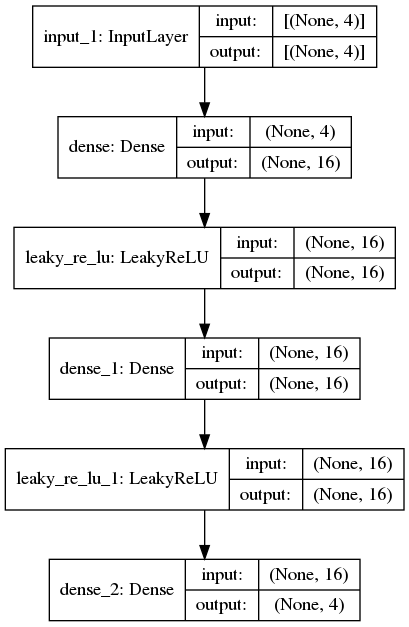
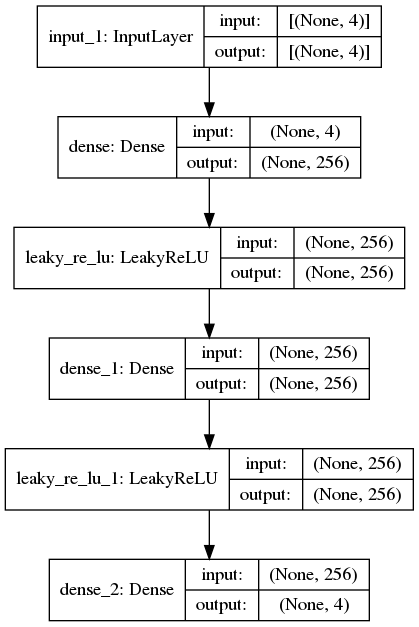
correction

diff --git a/Simple.py b/Simple.py
@@ -19,9 +19,9 @@ import copy
 curr_state = keras.Input(shape=(4,))
 
 # "encoded" is the encoded representation of the input
-encoded = Dense(16)(curr_state)
+encoded = Dense(256)(curr_state)
 encoded = LeakyReLU(alpha=0.2)(encoded)
-encoded = Dense(16)(encoded)
+encoded = Dense(256)(encoded)
 encoded = LeakyReLU(alpha=0.2)(encoded)
 n_state = layers.Dense(4)(encoded)
 
@@ -36,11 +36,11 @@ lr_schedule = keras.optimizers.schedules.ExponentialDecay(
     initial_learning_rate=5e-4,
     decay_steps=1000,
     decay_rate=0.9)
-opt = keras.optimizers.Adam(learning_rate=lr_schedule)
+#opt = keras.optimizers.Adam(learning_rate=lr_schedule)
 
 #opt = SGD(lr=0.005, momentum=0.9)
 #opt = Adam(lr=0.0005)
-#opt = tf.keras.optimizers.RMSprop(learning_rate=0.0005)
+opt = tf.keras.optimizers.RMSprop(learning_rate=0.00015)
 AE.compile(loss='mean_squared_error', optimizer=opt, metrics=['mse'])
 #AE.compile(loss='mean_squared_logarithmic_error', optimizer=opt, metrics=['mse'])
 
@@ -138,16 +138,16 @@ print("------")
     
 # Denormalise the data
 #pred_ns = denormalise (pred_ns)
-d_err_1 = np.abs(test_d - pred_ns)
+d_err_1 = np.abs(test_ns - pred_ns)
 
 for i in range(n):
     for j in range(4):
         pred_ns[i][j]=float("{:5.6f}".format(pred_ns[i][j]))
-        test_d[i][j]=float("{:5.6f}".format(test_d[i][j]))
+        test_ns[i][j]=float("{:5.6f}".format(test_ns[i][j]))
         d_err_1[i][j]=float("{:5.6f}".format(d_err_1[i][j]))
 
 for i in range(n):
-    print(pred_ns[i],test_d[i],d_err_1[i])
+    print(pred_ns[i],test_ns[i],d_err_1[i])
 print("------")
 
 p_err =np.mean(d_err*d_err,axis=0)
